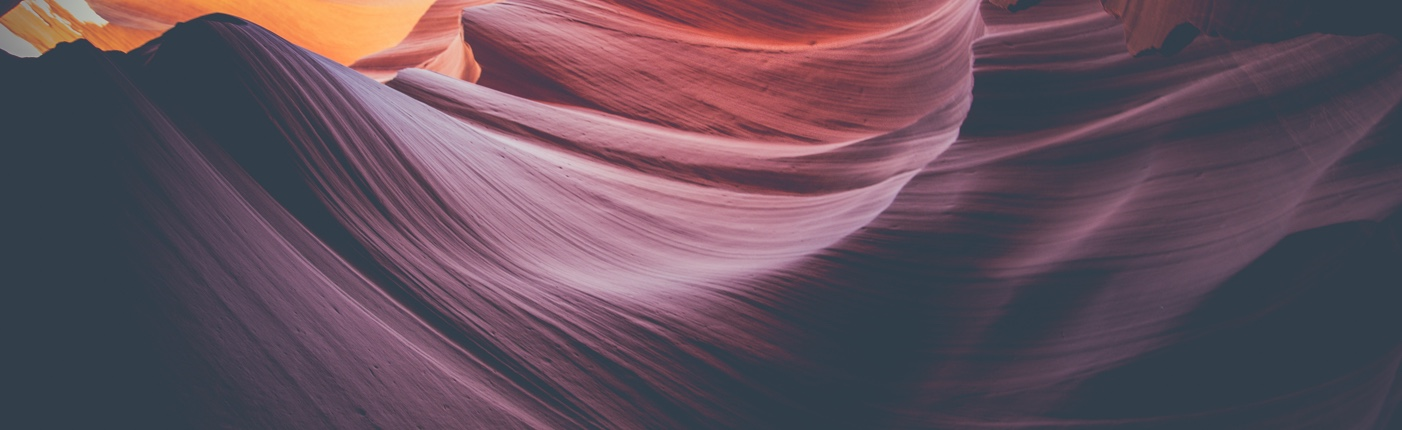
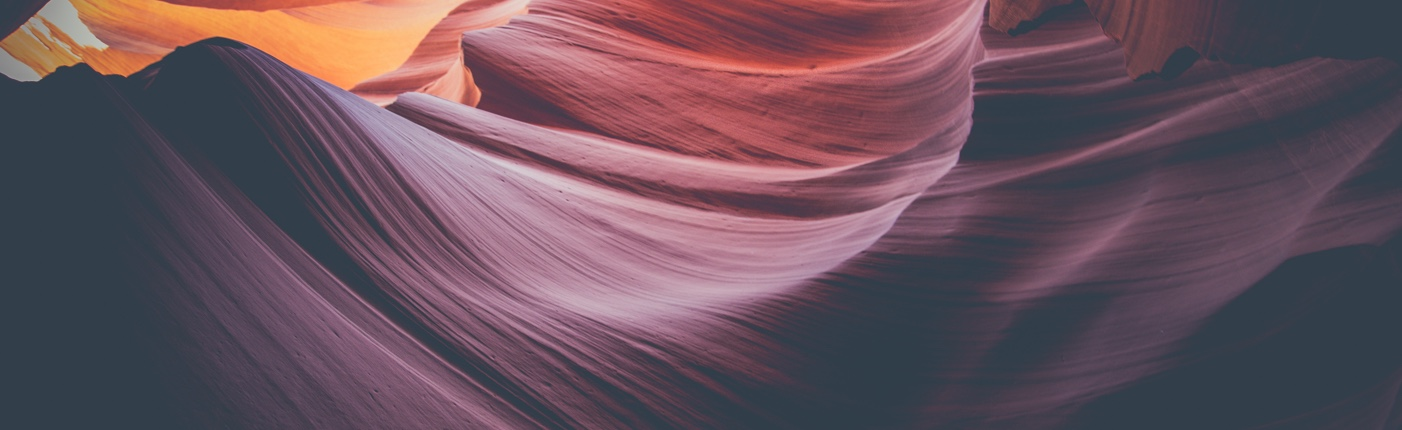
Update to resume

diff --git a/_site/index.html b/_site/index.html
@@ -20,18 +20,6 @@
   ga('send', 'pageview');
 
 </script>
-
-<script>
-	(function(i,s,o,g,r,a,m){i['GoogleAnalyticsObject']=r;i[r]=i[r]||function(){
-				(i[r].q=i[r].q||[]).push(arguments)},i[r].l=1*new Date();a=s.createElement(o),
-			m=s.getElementsByTagName(o)[0];a.async=1;a.src=g;m.parentNode.insertBefore(a,m)
-	})(window,document,'script','https://www.google-analytics.com/analytics.js','ga');
-
-	ga('create', 'UA-96546597-2', 'auto');
-	ga('send', 'pageview');
-
-</script>
-
 <body>
 
 <header id = "header">
@@ -73,7 +61,7 @@
 	</div>
 
 	<div class="about-blurb">
-		<p>Vancouver, Canada</p><p><strong>I am a <a href="https://drive.google.com/file/d/0B-fv_8ovAYyDZmR6dVNBR1lSS2c/view?usp=sharing">UX Researcher and Designer</a></strong> with over two years of professional experience in mobile and enterprise industry. I am also a <a href="https://www.ucl.ac.uk/uclic">UCLIC alumni</a> and I completed the MSc. in Human-Computer Interaction program in 2016. During my spare time, you can find me <a href="https://www.behance.net/kevinbudiman">redesigning</a> some websites or trekking along some Pacific Northwest mountains.</p><br /><p><b>My Process</b></p>
+		<p>Vancouver, Canada</p><p><strong>I am a <a href="https://drive.google.com/open?id=0B-fv_8ovAYyDZXNadTJPbzI2ZlU">User Experience Researcher</a></strong> with over two years of professional experience in mobile and enterprise industry. I am also a <a href="https://www.ucl.ac.uk/uclic">UCLIC alumni</a> and I completed the MSc. in Human-Computer Interaction program in 2016. During my spare time, you can find me <a href="https://www.behance.net/kevinbudiman">redesigning</a> some websites or trekking along some Pacific Northwest mountains.</p><br /><p><b>My Process</b></p>
 	</div>
 
 	<img src="/assets/img/process.png" style="margin-left: auto; margin-right: auto; display: block">

diff --git a/_site/assets/css/main.css b/_site/assets/css/main.css
@@ -342,7 +342,7 @@ header {
 
 header {
   background-position: 20px 15px, 50% 50%;
-  background-image: url(../img/logo.svg), url(../img/antelope-bg.jpg);
+  background-image: url(../img/logo.svg), url(../img/antelope-header.jpg);
   padding-bottom: 50px; }
   header .logo {
     height: 50px;
